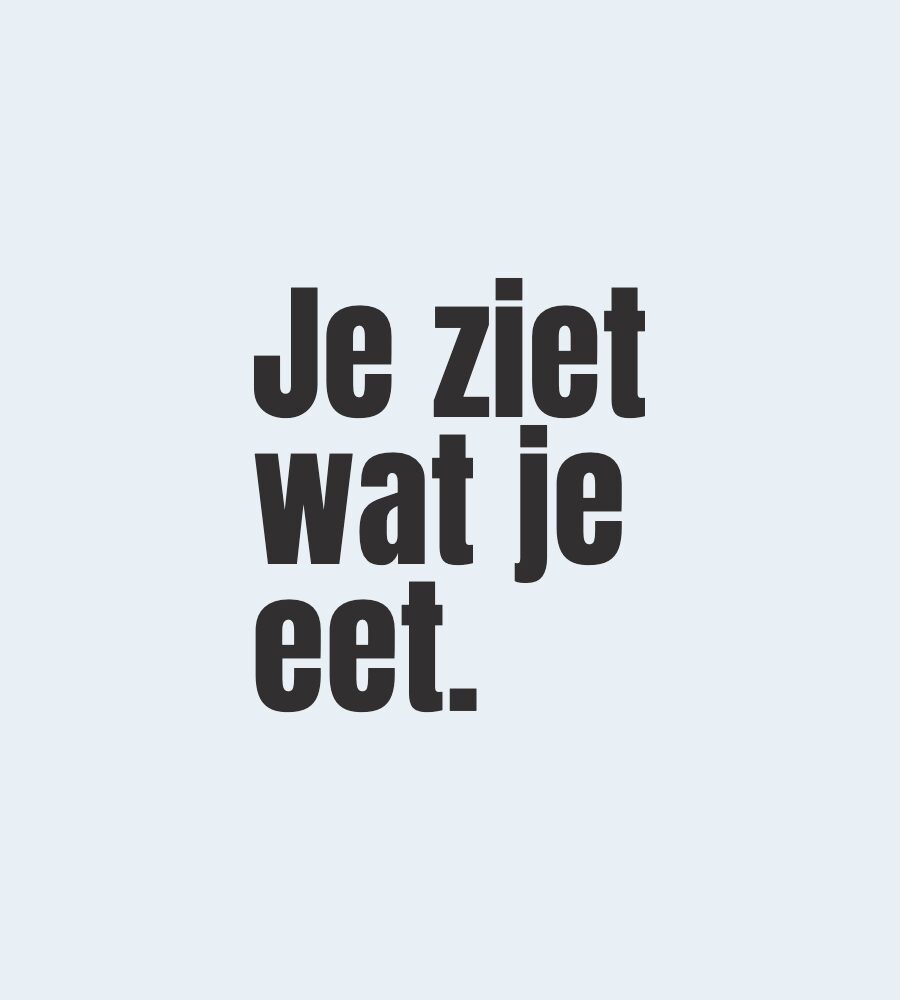
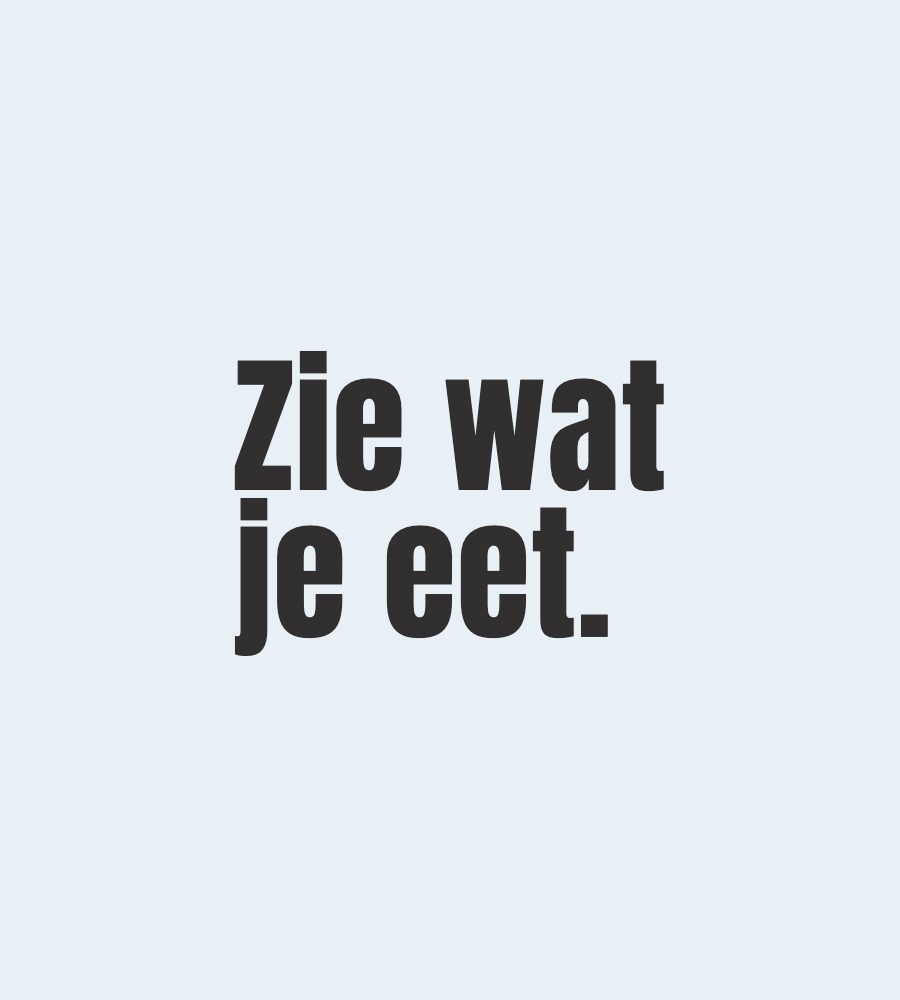
PER100 slogan is Zie wat je eet

Changed region(s): [[0.2489, 0.279, 0.7467, 0.713]]

diff --git a/brand-identity/per100/index.html b/brand-identity/per100/index.html
@@ -51,7 +51,7 @@
           PER100, uitgesproken als per honderd: de eenheid van elk etiket, waar de voedingswaarde per 100 gram staat. Het hele merk is opgebouwd als een voedingswaardetabel: één groot getal, hairlines, kolommen en onder elk getal een bron.
         </p>
         <div class="dv-facts">
-          <div class="dv-fact"><b>Je ziet wat je eet.</b><span>Slogan</span></div>
+          <div class="dv-fact"><b>Zie wat je eet.</b><span>Slogan</span></div>
           <div class="dv-fact"><b>Vier</b><span>Kleuren</span></div>
           <div class="dv-fact"><b>31</b><span>Eigen iconen</span></div>
           <div class="dv-fact"><b>Examen</b><span>Voor Upfront</span></div>
@@ -60,7 +60,7 @@
         <a href="../../app-development/per100/index.html" class="dv-link">Bekijk de app <span class="btn__arrow" aria-hidden="true">&rarr;</span></a>
         </div>
       </div>
-      <div class="dv-hero__shot"><img src="../../assets/per100/site-01-hero.jpg" alt="De hero van de PER100-site" /></div>
+      <div class="dv-hero__shot"><img src="../../assets/per100/site-01-hero.jpg?v=2" alt="De hero van de PER100-site" /></div>
     </div>
     <section class="dv-section reveal">
       <div class="dv-head">
@@ -147,7 +147,7 @@
       </div>
       <div class="dv-shots">
         <figure class="dv-shot">
-          <div class="dv-shot__frame"><img src="../../assets/per100/site-01-hero.jpg" alt="Hero" /></div>
+          <div class="dv-shot__frame"><img src="../../assets/per100/site-01-hero.jpg?v=2" alt="Hero" /></div>
           <figcaption class="dv-shot__cap"><span class="dv-shot__nr">01</span><span class="dv-shot__text">De slogan groot in Anton, met één echt scherm ernaast: Thuis met het getal en de bronregel eronder.</span></figcaption>
         </figure>
         <figure class="dv-shot">

diff --git a/brand-identity/index.html b/brand-identity/index.html
@@ -82,7 +82,7 @@
     </a>
     <a href="per100/index.html" class="bi-card reveal">
       <div class="bi-card__img">
-        <img src="../assets/covers/bi-per100-slogan.jpg" alt="De slogan van PER100" />
+        <img src="../assets/covers/bi-per100-slogan.jpg?v=2" alt="De slogan van PER100" />
         <img src="../assets/covers/bi-per100-logo.jpg" alt="Het logo van PER100" />
         <img src="../assets/covers/bi-per100-phone.jpg" alt="PER100 op de telefoon" />
       </div>

diff --git a/assets/per100/brief.md b/assets/per100/brief.md
@@ -82,7 +82,7 @@ Naast het ontwerp is er een werkende testversie voor Android: scannen, zoeken in
 ## Screens
 
 - `site-full.jpg`: de hele productsite op 1440 px breed. Rustig opgebouwd: één hero, de naam, drie uitgelichte schermen, een korte lijst, de bron, privacy en wie het maakte.
-- `site-01-hero.jpg`: de slogan Je ziet wat je eet. groot in Anton, met één echt scherm ernaast: Thuis met 1.090 kcal en de bronregel eronder.
+- `site-01-hero.jpg`: de slogan Zie wat je eet. groot in Anton, met één echt scherm ernaast: Thuis met 1.090 kcal en de bronregel eronder.
 - `site-02-naam.jpg`: de naam uitgelegd op Kool Zwart. PER100, uitgesproken als per honderd, de eenheid van elk etiket, naast het app-logo met de teal strepen in de nullen.
 - `site-03-de-bron-staat-eronder.jpg`: het productscherm groot naast één alinea. De belofte van de app in één beeld: onder elk getal het bronwoord in blauw.
 - `site-04-typ-wat-je-at.jpg`: een gewone zin wordt een maaltijd. Het scherm staat hier rechts, zodat de pagina afwisselt zonder drukker te worden.
